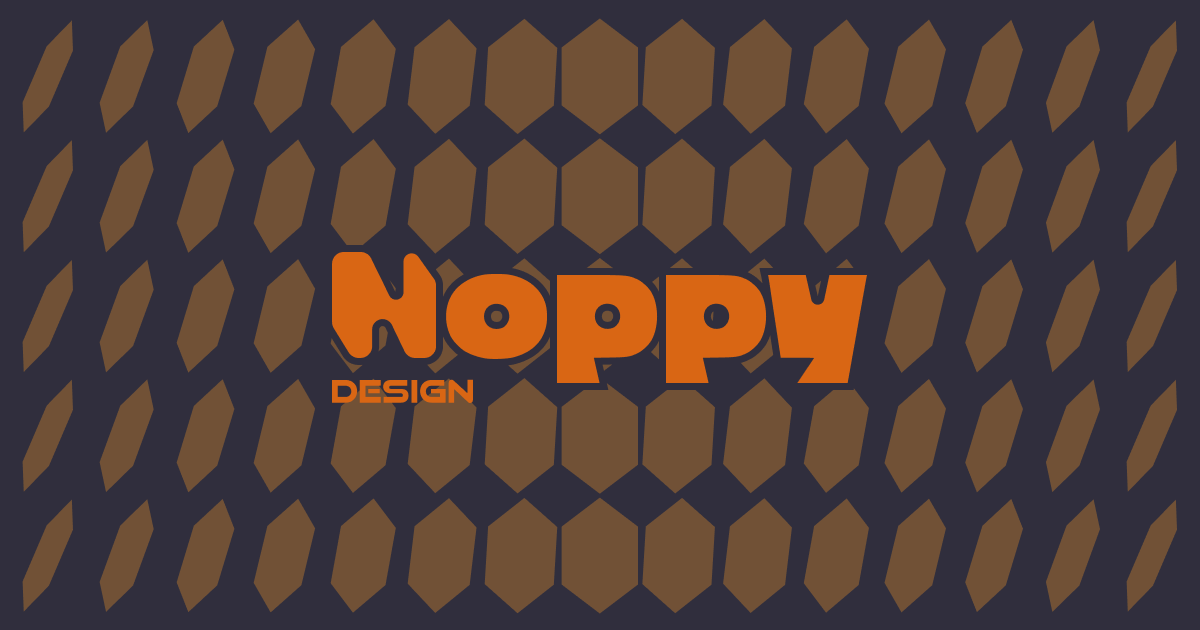
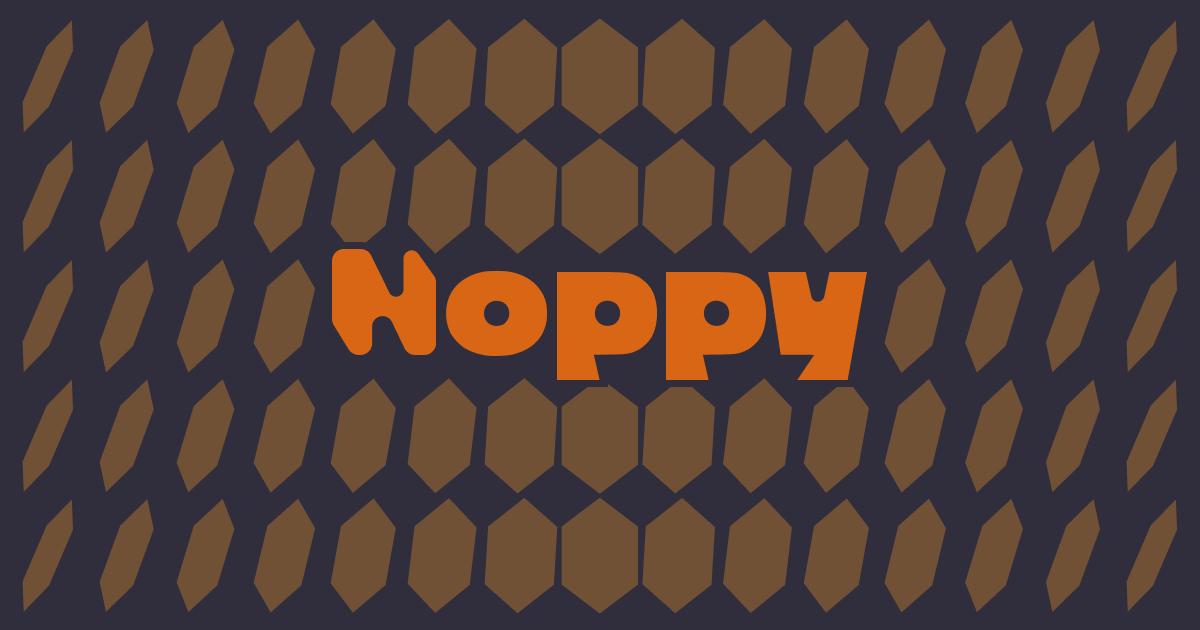
new17

diff --git a/src/i18n/en.ts b/src/i18n/en.ts
@@ -25,27 +25,27 @@ export default {
     tag_research: "Research",
     tag_gamification: "Gamification",
   services: {
-    title1: "Habili<i>d</i>ades",
-    title2: "& Serviç<i>o</i>s",
-    sub1: "Criativo",
+    title1: "Sk<i>i</i>lls",
+    title2: "& Servic<i>e</i>s",
+    sub1: "Creative",
     sub2: "Dev",
-    li1: "Pesquisa de Usuário",
-    info1: "Entender o comportamento, necessidades e dores dos usuários.",
-    li2: "Arquitetura da Informação",
-    info2: "Organização do conteúdo de forma intuitiva com mapas de navegação, fluxos e menus.",
-    li3: "Interface e Prototipação",
-    info3: "Versões simplificadas e interativas do produto antes do design final.",
-    li4: "Design de Interação",
-    info4: "Animações, transições e respostas de sistema.",
+    li1: "User Survey",
+    info1: "Understanding user behavior, needs, and pain points.",
+    li2: "Information Architecture",
+    info2: "Organize content intuitively with navigation maps, flows, and menus.",
+    li3: "Interface and Prototyping",
+    info3: "Simplified and interactive versions of the product before the final design.",
+    li4: "Interaction Design",
+    info4: "Animations, transitions, and system responses.",
     li5: "Design System",
-    info5: "Padrões de componentes para consistência e desenvolvimento acelerado.",
-    li6: "Testes de Usabilidade",
-    info6: "Validação do design com usuários para identificar problemas e oportunidades.",
-    li7: "Design Gráfico",
-    info7: "Soluções de comunicação visual para o meio impresso ou digital.",
-    li8: "Consultoria Estratégica",
-    info8: "Ideação de produto, posicionamento, presença digital e inovação.",
-    p: "Tenho habilidades em UI development, escrevo o código de interfaces responsivas, websites, comportamento de componentes e interações.",
+    info5: "Component patterns for consistency and accelerated development.",
+    li6: "Usability Testing",
+    info6: "Validating the design with users to identify problems and opportunities.",
+    li7: "Graphic Design",
+    info7: "Visual communication solutions for print or digital media.",
+    li8: "Strategic Consulting",
+    info8: "Product ideation, positioning, digital presence, and innovation.",
+    p: "I have skills in UI development; I write code for responsive interfaces, websites, component behavior, and interactions.",
   },
   footer: {
     location: "São Paulo",